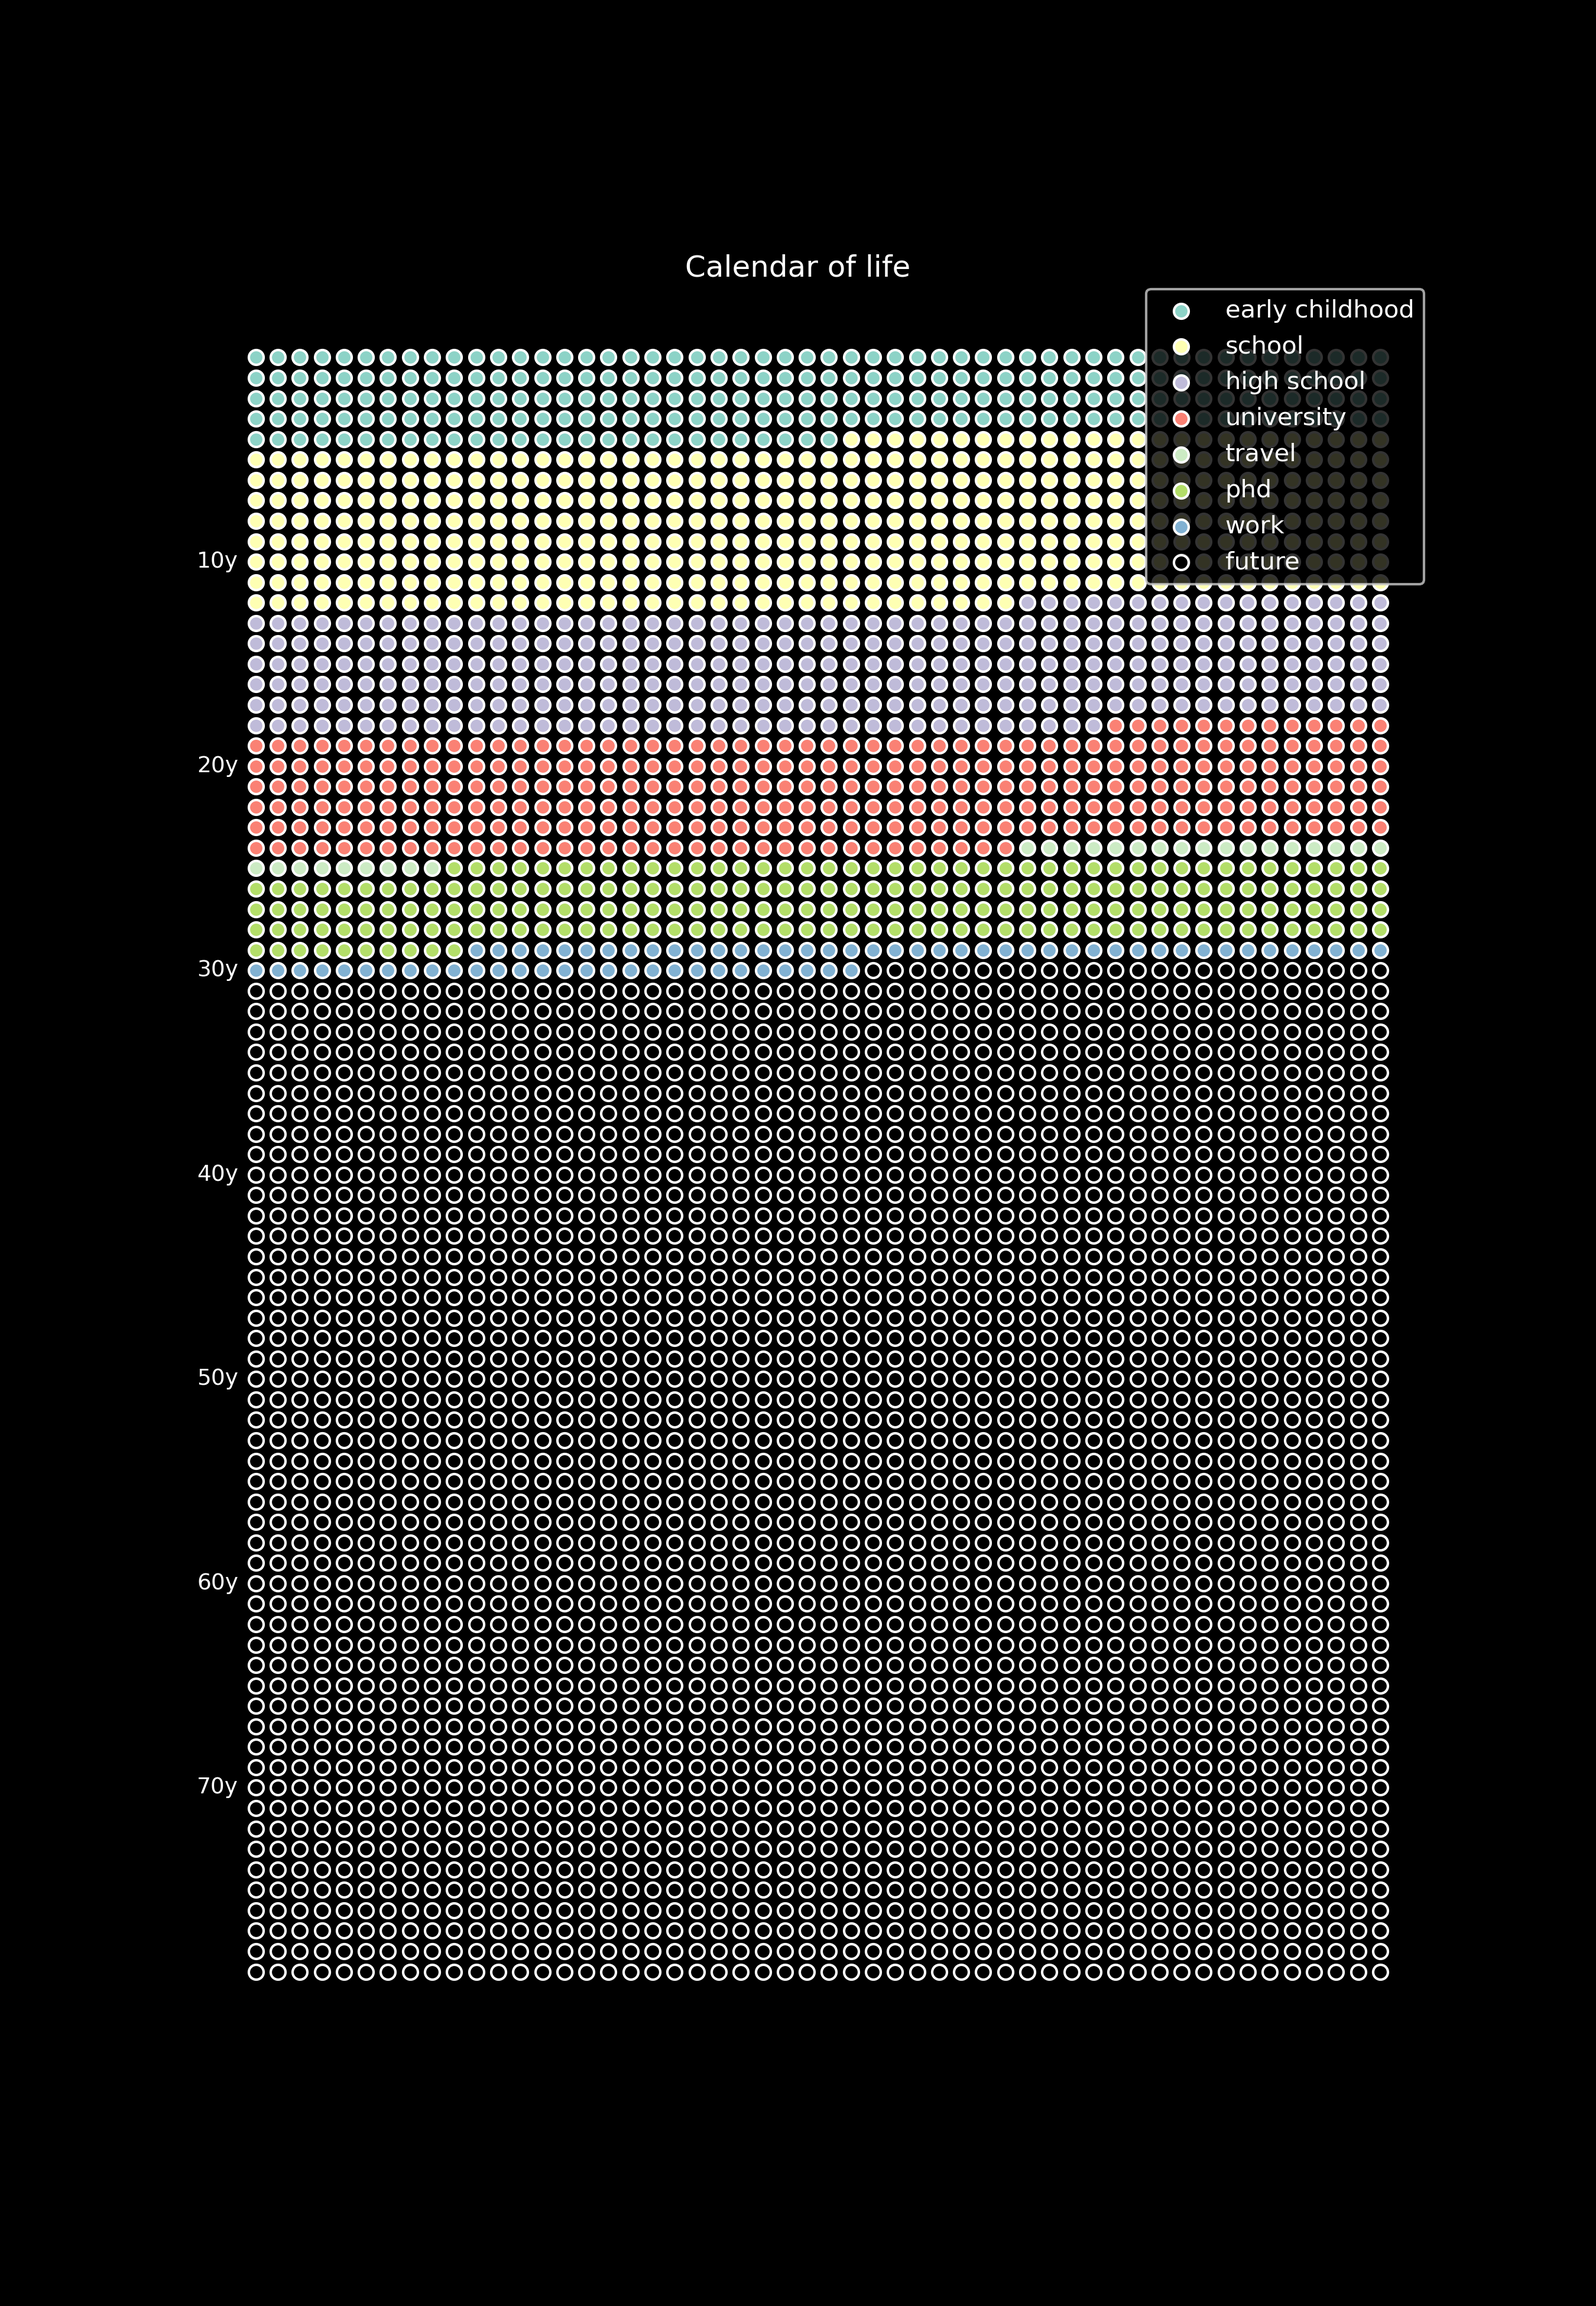
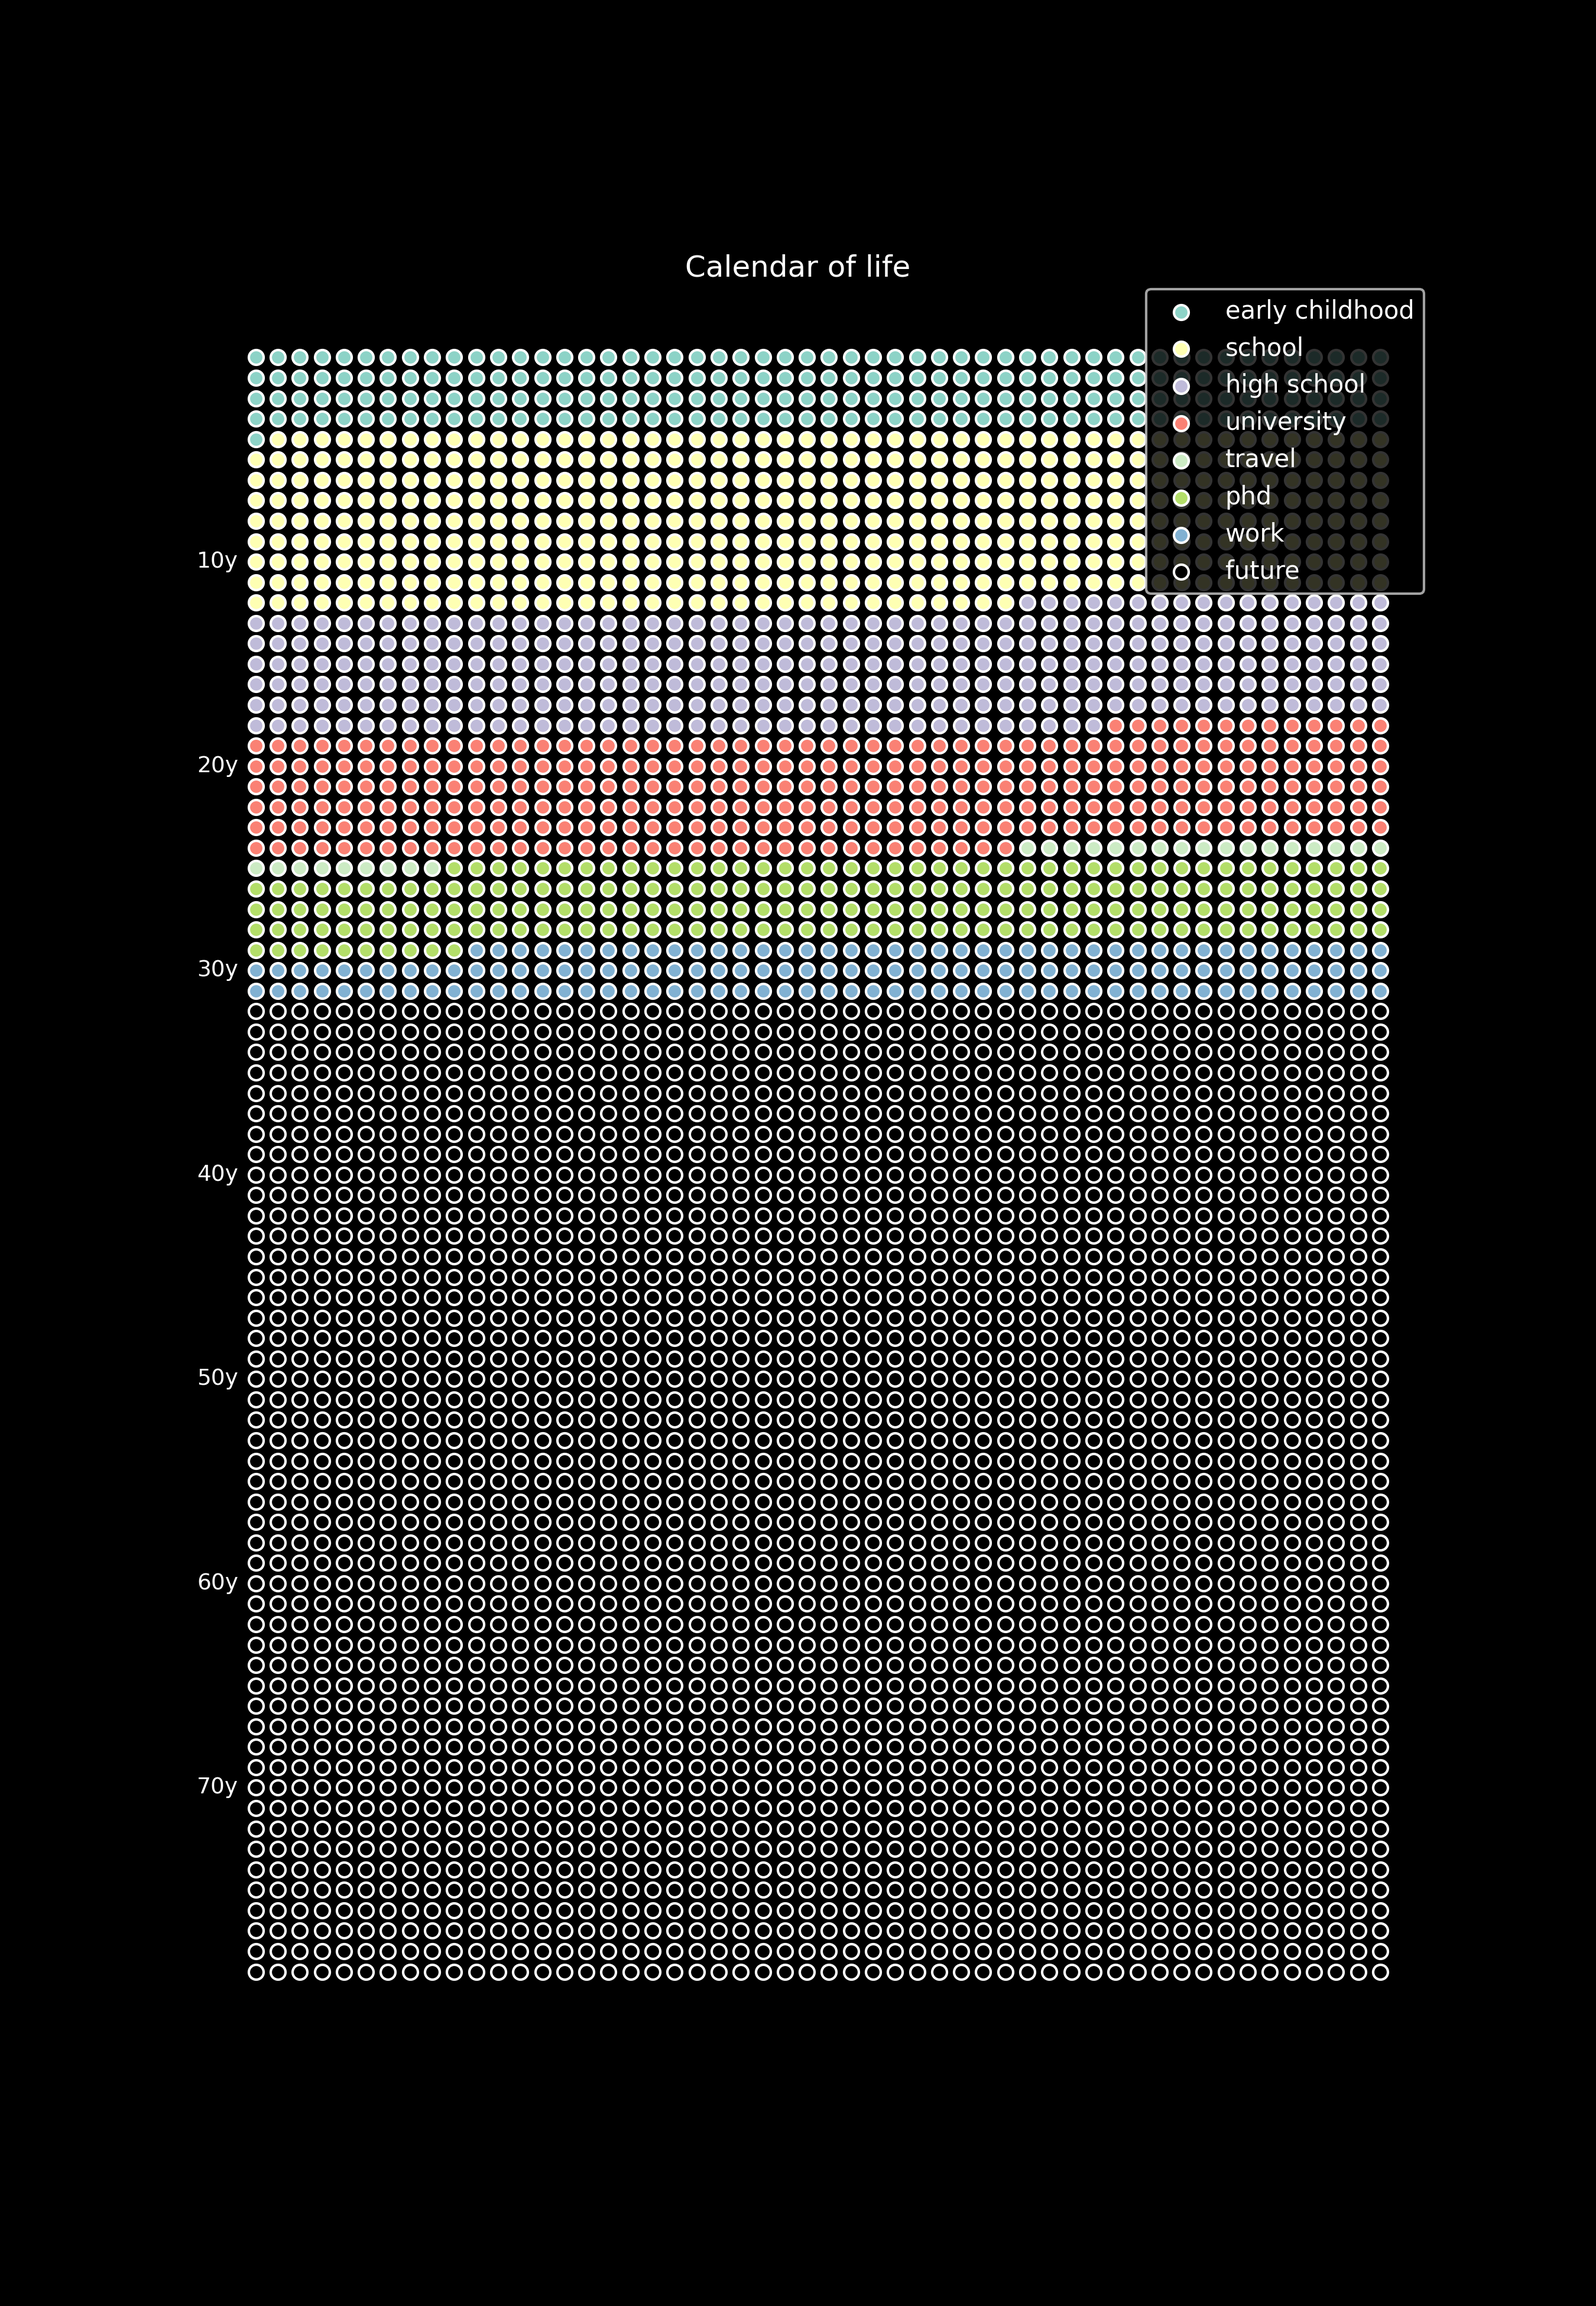
Single life definition

Changed region(s): [[0.7156, 0.1241, 0.8711, 0.2792], [0.5289, 0.4033, 0.8711, 0.4344]]

diff --git a/calendar_of_life.py b/calendar_of_life.py
@@ -33,31 +33,23 @@ def create_calendar(
     birthday = datetime.date(1990, 12, 28)
     today = datetime.date.today()
     life = [
-        ("born", birthday),
-        ("early childhood", birthday + datetime.timedelta(days=4 * 365)),
-        ("school", datetime.date(2003, 8, 18)),
-        ("high school", datetime.date(2009, 9, 1)),
-        ("university", datetime.date(2015, 8, 1)),
-        ("travel", datetime.date(2016, 2, 1)),
-        ("phd", datetime.date(2020, 2, 1)),
-        ("work", today),
+        ("born", birthday, None),
+        ("early childhood", birthday + datetime.timedelta(days=4 * 365), "C0"),
+        ("school", datetime.date(2003, 8, 18), "C1"),
+        ("high school", datetime.date(2009, 9, 1), "C2"),
+        ("university", datetime.date(2015, 8, 1), "C3"),
+        ("travel", datetime.date(2016, 2, 1), "C8"),
+        ("phd", datetime.date(2020, 2, 1), "C6"),
+        ("work", today, "C4"),
     ]
 
-    stages = [key for key, date in life]
-    weeks_of_life = [round((date - birthday).days / 7) for key, date in life]
+    stages = [key for key, _, _ in life]
+    weeks_of_life = [round((date - birthday).days / 7) for _, date, _ in life]
     weeks_of_life_past = np.cumsum(np.diff(weeks_of_life))
 
     data = defaultdict(list)
-    colors = {
-        "early childhood": "C0",
-        "school": "C1",
-        "high school": "C2",
-        "university": "C3",
-        "travel": "C8",
-        "phd": "C6",
-        "work": "C4",
-        "future": face,
-    }
+    colors = {stage: color for stage, _, color in life[1:]}
+    colors["future"] = face
     week_num = 0
     weeks = np.linspace(0, h, 52)
     years = np.linspace(w, 0, 80)
